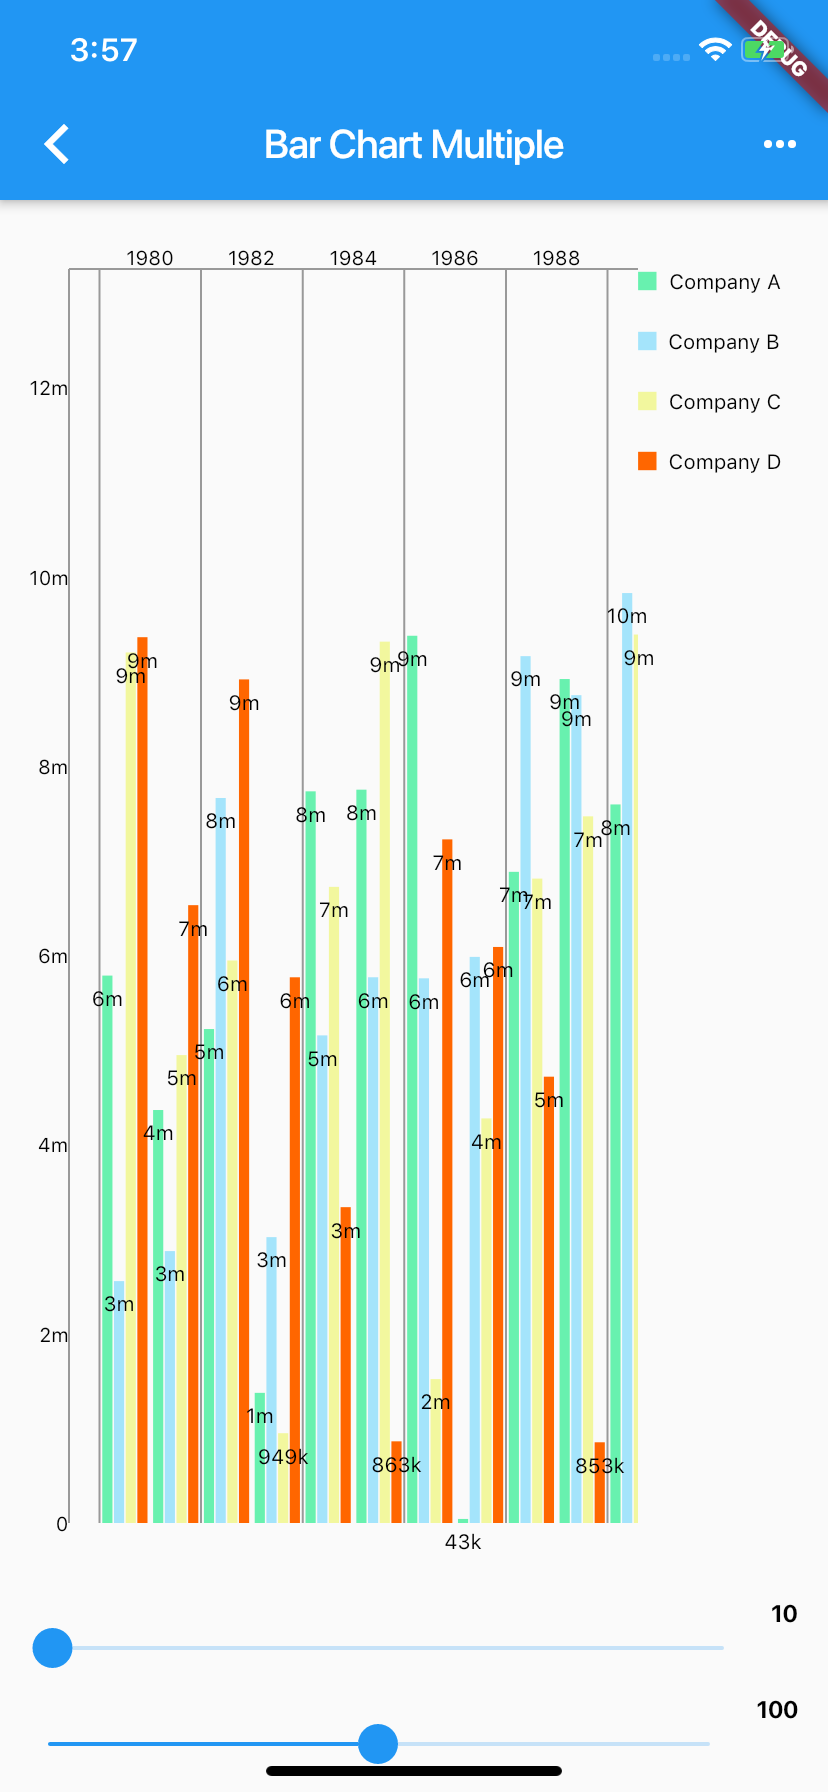
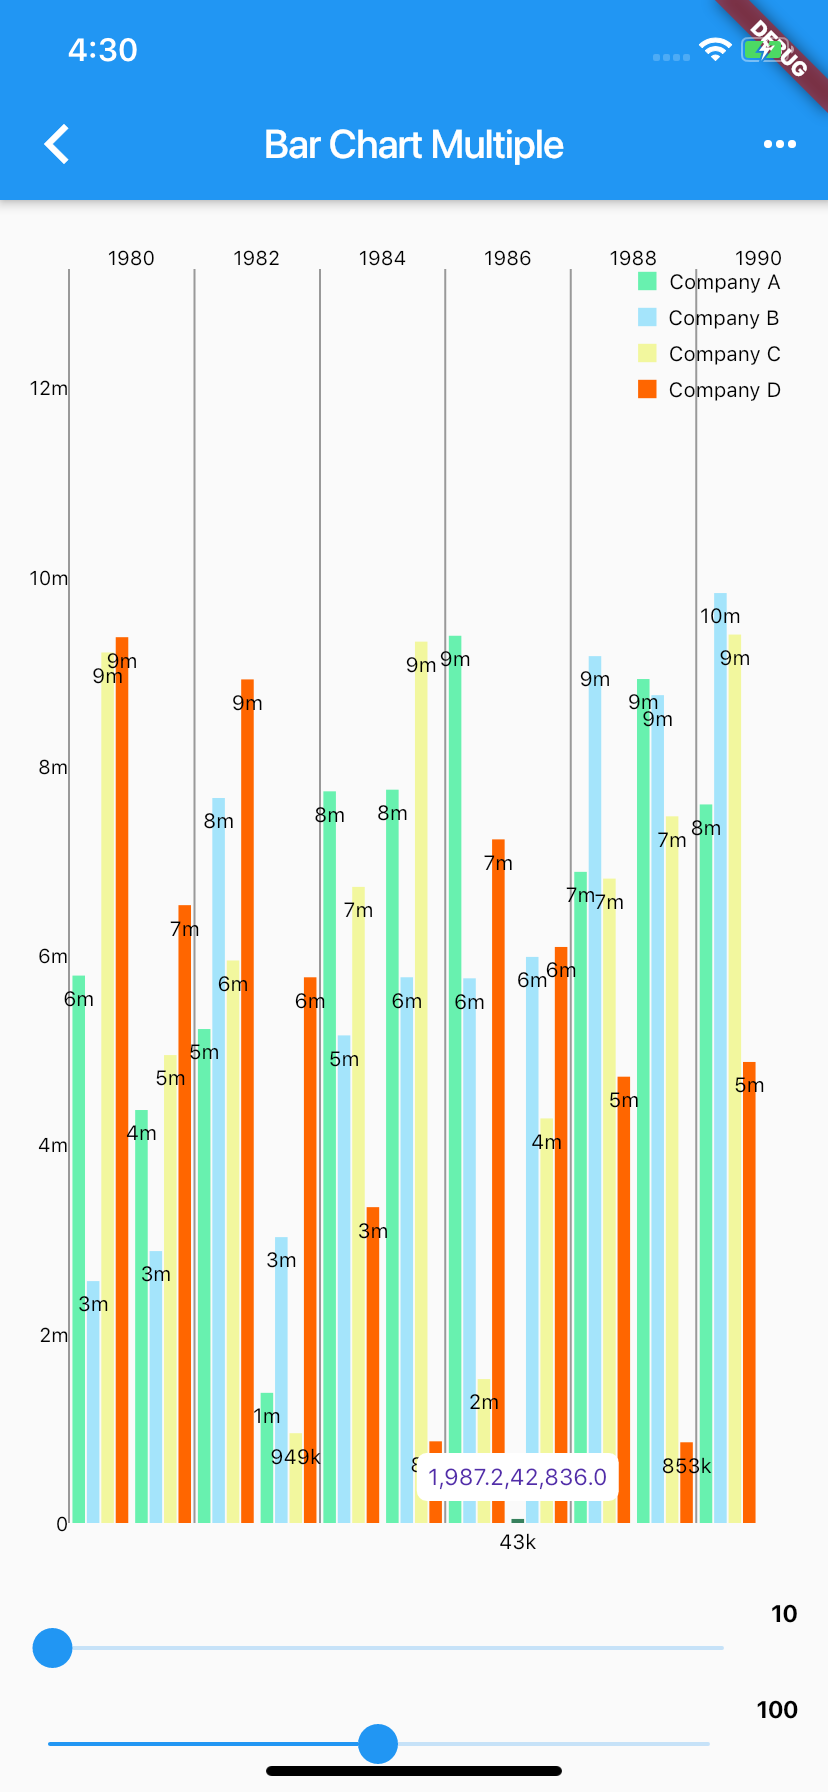
bar chart multiple's lenged inside

diff --git a/lib/demo/bar_chart/multiple.dart b/lib/demo/bar_chart/multiple.dart
@@ -218,7 +218,7 @@ class BarChartMultipleState extends BarActionState<BarChartMultiple>
         ..verticalAlignment = (LegendVerticalAlignment.TOP)
         ..horizontalAlignment = (LegendHorizontalAlignment.RIGHT)
         ..orientation = (LegendOrientation.VERTICAL)
-        ..drawInside = (false)
+        ..drawInside = true
 //        ..setTypeface(tfLight)
         ..yOffset = (0.0)
         ..xOffset = (10)
